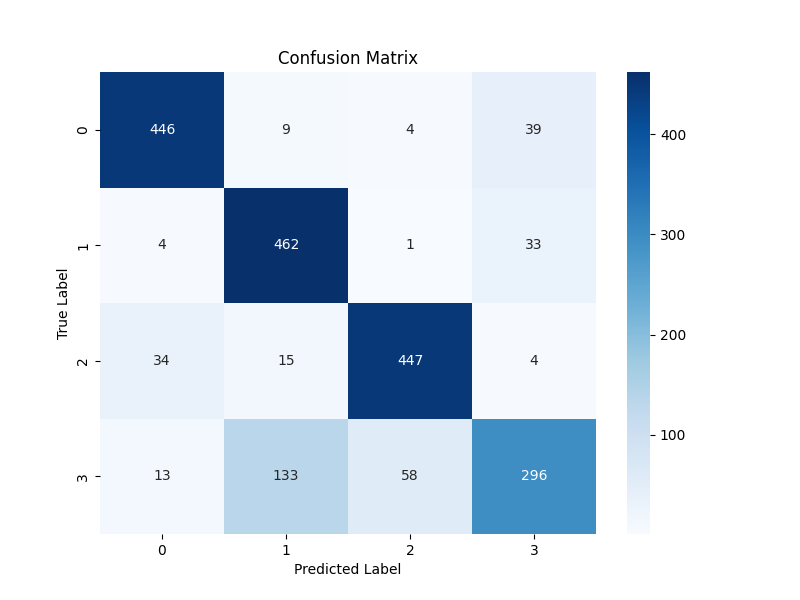
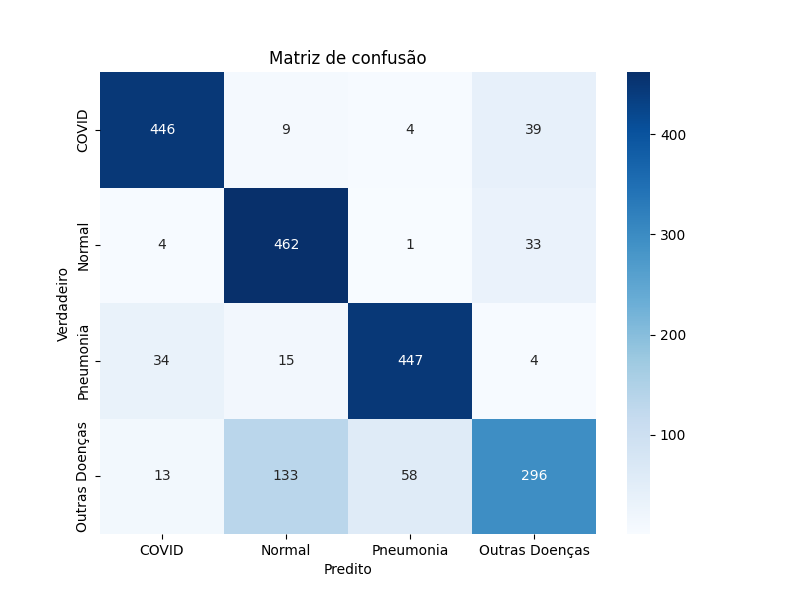
get more results

diff --git a/cmd/train_remake_model.py b/cmd/train_remake_model.py
@@ -25,6 +25,7 @@ sys.path.append(PATH_ROOT)
 
 TRAIN_DATASET_PATH = os.getenv('TRAIN_DATASET_PATH')
 model_path = os.path.join(PATH_ROOT, 'model', 'cnn_model.h5')
+retrained_model_path = os.path.join(PATH_ROOT, 'model', 'cnn_model_retrained.h5')
 
 from src.utils.shuffle import shuffle_in_order
 from src.utils.laod_retrain_dataset import load_retrain_dataset
@@ -40,48 +41,51 @@ retrained_images, retrained_labels = shuffle_in_order(retrained_images, retraine
 
 print('retrained_images.shape: ', retrained_images.shape, ', retrained_labels.shape: ', retrained_labels.shape)
 
-# Carrega o modelo salvo
-model = tf.keras.models.load_model(model_path)
+if os.path.exists(retrained_model_path):
+  pass
+else:
+  # Carrega o modelo salvo
+  model = tf.keras.models.load_model(model_path)
 
-# summary model structure
-model.summary() 
+  # summary model structure
+  model.summary() 
 
-# Compilando o modelo
-model.compile(optimizer='adam', loss='categorical_crossentropy', metrics=['accuracy'])
+  # Compilando o modelo
+  model.compile(optimizer='adam', loss='categorical_crossentropy', metrics=['accuracy'])
 
-# early stop
-callback = tf.keras.callbacks.EarlyStopping(monitor='loss', patience=0.075)
+  # early stop
+  callback = tf.keras.callbacks.EarlyStopping(monitor='loss', patience=0.075)
 
-# Supondo que seus rótulos são inteiros de 0 a 3
-retrained_labels_one_hot = tf.keras.utils.to_categorical(retrained_labels, num_classes=4)
+  # Supondo que seus rótulos são inteiros de 0 a 3
+  retrained_labels_one_hot = tf.keras.utils.to_categorical(retrained_labels, num_classes=4)
 
-# Treinando o modelo
-history = model.fit(retrained_images, retrained_labels_one_hot, batch_size=8, epochs=10, validation_split=0.1, callbacks=[callback], verbose=1)
+  # Treinando o modelo
+  history = model.fit(retrained_images, retrained_labels_one_hot, batch_size=8, epochs=10, validation_split=0.1, callbacks=[callback], verbose=1)
 
-# Plotando a acurácia de treino e validação ao longo das épocas
-plt.figure(figsize=(12, 5))
-plt.plot(history.history['accuracy'], label='Train Accuracy')
-plt.plot(history.history['val_accuracy'], label='Validation Accuracy')
-plt.legend()
-plt.title('Accuracy over epochs')
-plt.xlabel('Epoch')
-plt.ylabel('Accuracy')
+  # Plotando a acurácia de treino e validação ao longo das épocas
+  plt.figure(figsize=(12, 5))
+  plt.plot(history.history['accuracy'], label='Train Accuracy')
+  plt.plot(history.history['val_accuracy'], label='Validation Accuracy')
+  plt.legend()
+  plt.title('Accuracy over epochs')
+  plt.xlabel('Epoch')
+  plt.ylabel('Accuracy')
 
-plt.savefig(os.path.join(PATH_ROOT, 'stats', 'train', 'retrained_accuracy_graph.png'))
+  plt.savefig(os.path.join(PATH_ROOT, 'stats', 'train', 'retrained_accuracy_graph.png'))
 
-# Plotando a perda de treino e validação ao longo das épocas
-plt.figure(figsize=(12, 5))
-plt.plot(history.history['loss'], label='Train Loss')
-plt.plot(history.history['val_loss'], label='Validation Loss')
-plt.legend()
-plt.title('Loss over epochs')
-plt.xlabel('Epoch')
-plt.ylabel('Loss')
+  # Plotando a perda de treino e validação ao longo das épocas
+  plt.figure(figsize=(12, 5))
+  plt.plot(history.history['loss'], label='Train Loss')
+  plt.plot(history.history['val_loss'], label='Validation Loss')
+  plt.legend()
+  plt.title('Loss over epochs')
+  plt.xlabel('Epoch')
+  plt.ylabel('Loss')
 
-# save fig
-plt.savefig(os.path.join(PATH_ROOT, 'stats', 'train', 'retrained_loss_graph.png'))
+  # save fig
+  plt.savefig(os.path.join(PATH_ROOT, 'stats', 'train', 'retrained_loss_graph.png'))
 
-# Se você quiser salvar o modelo após o treinamento, você pode fazer isso:
-model.save(os.path.join(PATH_ROOT, 'model', 'cnn_model_retrained.h5'))
+  # Se você quiser salvar o modelo após o treinamento, você pode fazer isso:
+  model.save(os.path.join(PATH_ROOT, 'model', 'cnn_model_retrained.h5'))
 
 mlflow.run(uri='.', entry_point='retest_model_retrained', parameters={ 'tax_samples': tax_samples })

diff --git a/cmd/test_model.py b/cmd/test_model.py
@@ -13,33 +13,12 @@ except:
   # Invalid device or cannot modify virtual devices once initialized.
   pass
 
-
 from sklearn.metrics import confusion_matrix,multilabel_confusion_matrix, recall_score, accuracy_score, precision_score, f1_score
 
-COVID, NORMAL, PNEUMONIA, OTHER_FINDING = range(4)
-
-def separete_classes(train_images, train_labels):
-    # Aqui vamos usar as máscaras diretamente nos rótulos
-    mask_covid = train_labels == COVID
-    mask_normal = train_labels == NORMAL
-    mask_pneumonia = train_labels == PNEUMONIA
-    mask_other_findings = train_labels == OTHER_FINDING
-
-    # Agora, usamos as máscaras para selecionar as imagens correspondentes
-    covid_images = train_images[mask_covid]
-    normal_images = train_images[mask_normal]
-    pneumonia_images = train_images[mask_pneumonia]
-    other_findings_images = train_images[mask_other_findings]
-
-    covid_labels = train_labels[mask_covid]
-    normal_labels = train_labels[mask_normal]
-    pneumonia_labels = train_labels[mask_pneumonia]
-    other_findings_labels = train_labels[mask_other_findings]
-
-    return (covid_images, covid_labels), (normal_images, normal_labels), (pneumonia_images, pneumonia_labels), (other_findings_images, other_findings_labels)
-
-
 # ================================================
+
+# Nomes das classes
+classes = ['COVID', 'Normal', 'Pneumonia', 'Outras Doenças']
 
 PATH_ROOT = os.getenv('PATH_ROOT')
 TEST_STATS_PATH = os.getenv('TEST_STATS_PATH')
@@ -49,10 +28,6 @@ TEST_DATASET_PATH = os.getenv('TEST_DATASET_PATH')
 
 test_images = np.load(os.path.join(TEST_DATASET_PATH, 'test_images.npy'))
 test_labels = np.load(os.path.join(TEST_DATASET_PATH, 'test_labels.npy'))
-
-(covid_images, covid_labels), (normal_images, normal_labels), (pneumonia_images, pneumonia_labels), (other_findings_images, other_findings_labels) = separete_classes(test_images, test_labels)
-
-pass
 
 model = tf.keras.models.load_model(os.path.join(PATH_ROOT, 'model', 'cnn_model.h5'))
 
@@ -83,8 +58,8 @@ with open(os.path.join(TEST_STATS_PATH, 'stats.json'), 'w') as f:
 
 # Plotando a matriz de confusão
 plt.figure(figsize=(8, 6))
-sns.heatmap(conf_matrix, annot=True, fmt='g', cmap='Blues')
-plt.xlabel('Predicted Label')
-plt.ylabel('True Label')
-plt.title('Confusion Matrix')
+sns.heatmap(conf_matrix, annot=True, fmt='g', cmap='Blues', xticklabels=classes, yticklabels=classes)
+plt.xlabel('Predito')
+plt.ylabel('Verdadeiro')
+plt.title('Matriz de confusão')
 plt.savefig(os.path.join(TEST_STATS_PATH, 'confusion_matrix.png'))

diff --git a/cmd/experiments_remake.py b/cmd/experiments_remake.py
@@ -19,6 +19,9 @@ from sklearn.metrics import confusion_matrix, multilabel_confusion_matrix, recal
 
 # ================================================
 
+# Nomes das classes
+classes = ['COVID', 'Normal', 'Pneumonia', 'Outras Doenças']
+
 PATH_ROOT = os.getenv('PATH_ROOT')
 EXPERIMENT_STATS_PATH = os.getenv('EXPERIMENT_STATS_PATH')
 EXPERIMENTS_DATASET_PATH = os.getenv('EXPERIMENTS_DATASET_PATH')
@@ -31,16 +34,13 @@ from src.utils.detect_concept_drift import detect_experiment_remake_concept_drif
 
 # ================================================
 
-percents_of_unknown_samples = [10.0, 20.0, 30.0, 40.0]
+percents_of_unknown_samples = [10.0, 20.0, 30.0, 40.0, 50.0, 60.0, 70.0, 80.0, 90.0, 100.0]
 
 # Carrega e compila o modelo
 model = tf.keras.models.load_model(os.path.join(PATH_ROOT, 'model', 'cnn_model_retrained.h5'))
 model.compile(optimizer='adam', loss='categorical_crossentropy', metrics=['accuracy'])
 
 for percentage in percents_of_unknown_samples:
-    if percentage / 100 > tax_samples:
-        continue
-
     experiment_images_path = os.path.join(EXPERIMENTS_DATASET_PATH, f'experiment_images_{percentage}_infiltration.npy')
     experiment_labels_path = os.path.join(EXPERIMENTS_DATASET_PATH, f'experiment_labels_{percentage}_infiltration.npy')
 
@@ -77,14 +77,14 @@ for percentage in percents_of_unknown_samples:
 
     # Plotando a matriz de confusão
     plt.figure(figsize=(8, 6))
-    sns.heatmap(conf_matrix, annot=True, fmt='g', cmap='Blues')
-    plt.xlabel('Predicted Label')
-    plt.ylabel('True Label')
-    plt.title('Confusion Matrix')
+    sns.heatmap(conf_matrix, annot=True, fmt='g', cmap='Blues', xticklabels=classes, yticklabels=classes)
+    plt.xlabel('Predito')
+    plt.ylabel('Verdadeiro')
+    plt.title('Matriz de confusão')
     plt.savefig(os.path.join(EXPERIMENT_STATS_PATH, f'retrained_confusion_matrix_{percentage}.png'))
 
-    has_concept_drift = detect_experiment_remake_concept_drift(stats=stats)
+    # has_concept_drift = detect_experiment_remake_concept_drift(stats=stats)
 
-    if has_concept_drift:
-        parameters = { 'tax_samples': tax_samples }
-        mlflow.run('.', entry_point='retrain_model', parameters=parameters)
+    # if has_concept_drift:
+    #     parameters = { 'tax_samples': tax_samples }
+    #     mlflow.run('.', entry_point='retrain_model', parameters=parameters)

diff --git a/cmd/experiments.py b/cmd/experiments.py
@@ -19,6 +19,9 @@ from sklearn.metrics import confusion_matrix, multilabel_confusion_matrix, recal
 
 # ================================================
 
+# Nomes das classes
+classes = ['COVID', 'Normal', 'Pneumonia', 'Outras Doenças']
+
 PATH_ROOT = os.getenv('PATH_ROOT')
 EXPERIMENT_STATS_PATH = os.getenv('EXPERIMENT_STATS_PATH')
 EXPERIMENTS_DATASET_PATH = os.getenv('EXPERIMENTS_DATASET_PATH')
@@ -80,10 +83,10 @@ for percentage in percents_of_unknown_samples:
 
     # Plotando a matriz de confusão
     plt.figure(figsize=(8, 6))
-    sns.heatmap(conf_matrix, annot=True, fmt='g', cmap='Blues')
-    plt.xlabel('Predicted Label')
-    plt.ylabel('True Label')
-    plt.title('Confusion Matrix')
+    sns.heatmap(conf_matrix, annot=True, fmt='g', cmap='Blues', xticklabels=classes, yticklabels=classes)
+    plt.xlabel('Predito')
+    plt.ylabel('Verdadeiro')
+    plt.title('Matriz de confusão')
     plt.savefig(os.path.join(EXPERIMENT_STATS_PATH, f'confusion_matrix_{percentage}.png'))
 
     has_concept_drift = detect_experimet_concept_drift(stats=stats)

diff --git a/cmd/prepare_experiments_dataset.py b/cmd/prepare_experiments_dataset.py
@@ -8,7 +8,7 @@ COVID, NORMAL, PNEUMONIA, OTHER_FINDINGS = range(4)
 # num of total samples
 total_samples = 2000
 # percent of unknown samples to add in experiment
-percentages = [0.1, 0.2, 0.3, 0.4, 0.5, 0.6, 0.7]
+percentages = [0.1, 0.2, 0.3, 0.4, 0.5, 0.6, 0.7, 0.8, 0.9, 1.0]
 
 # ================================================
 
